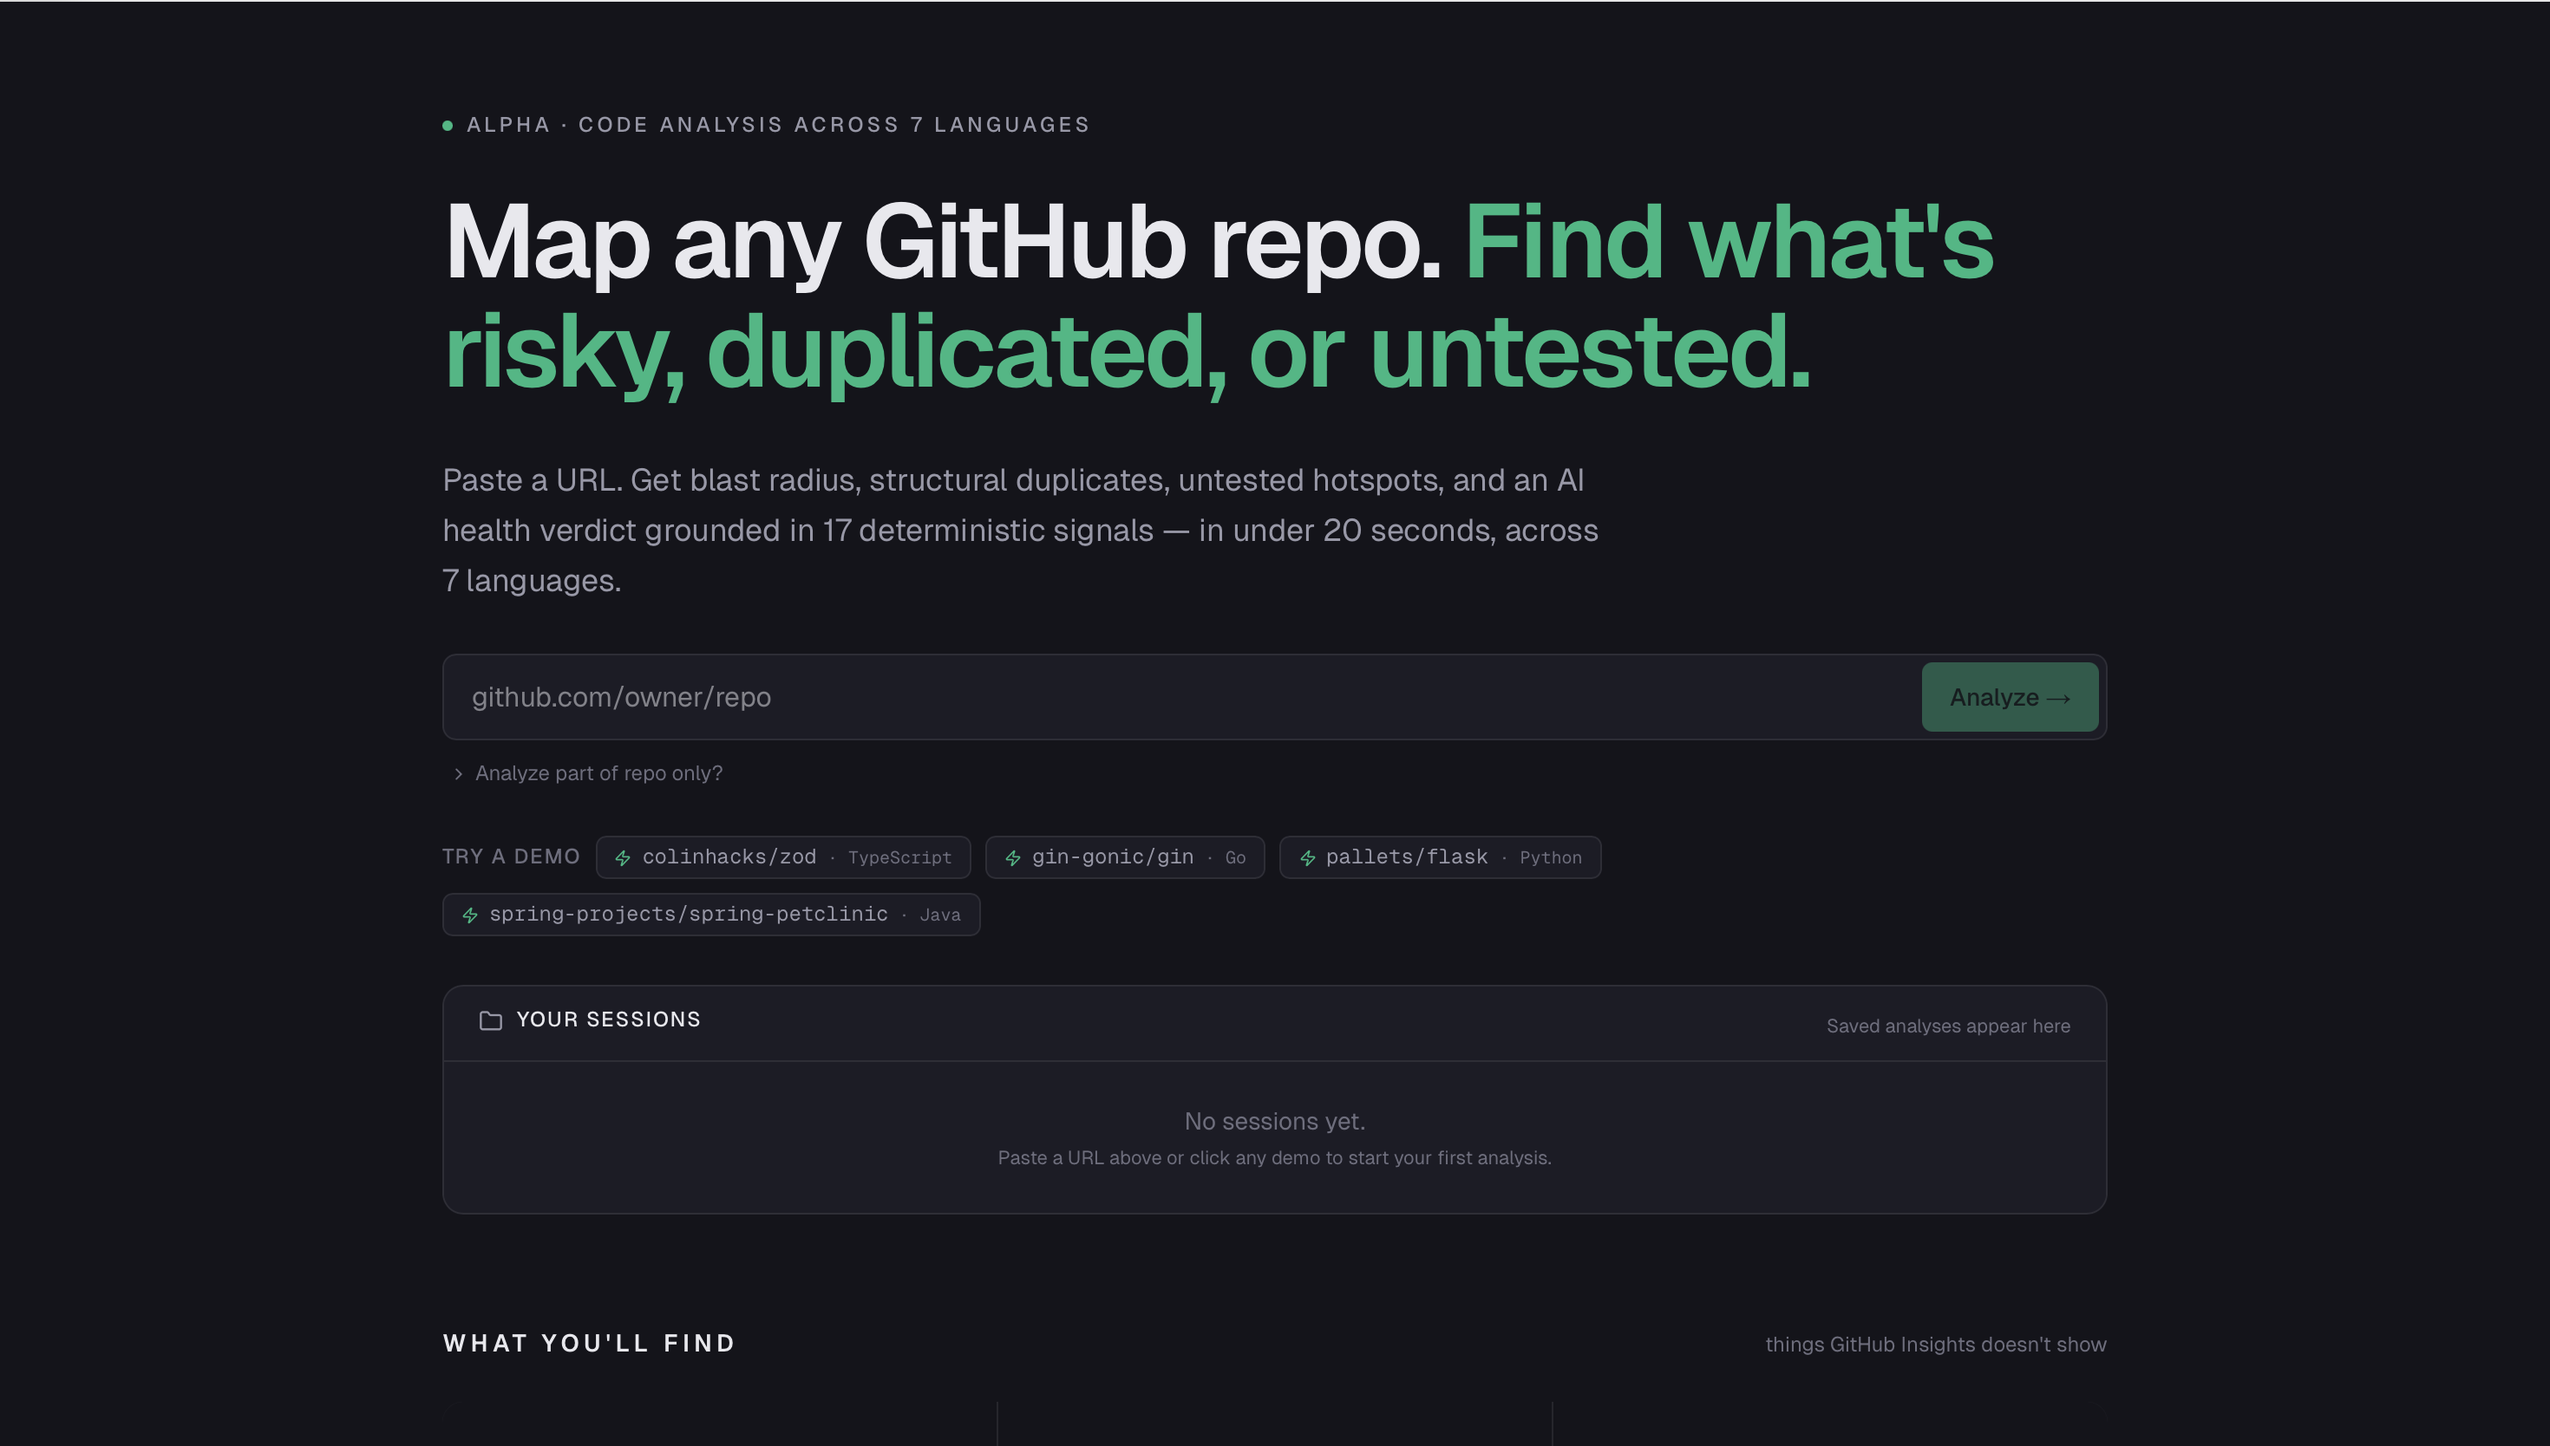
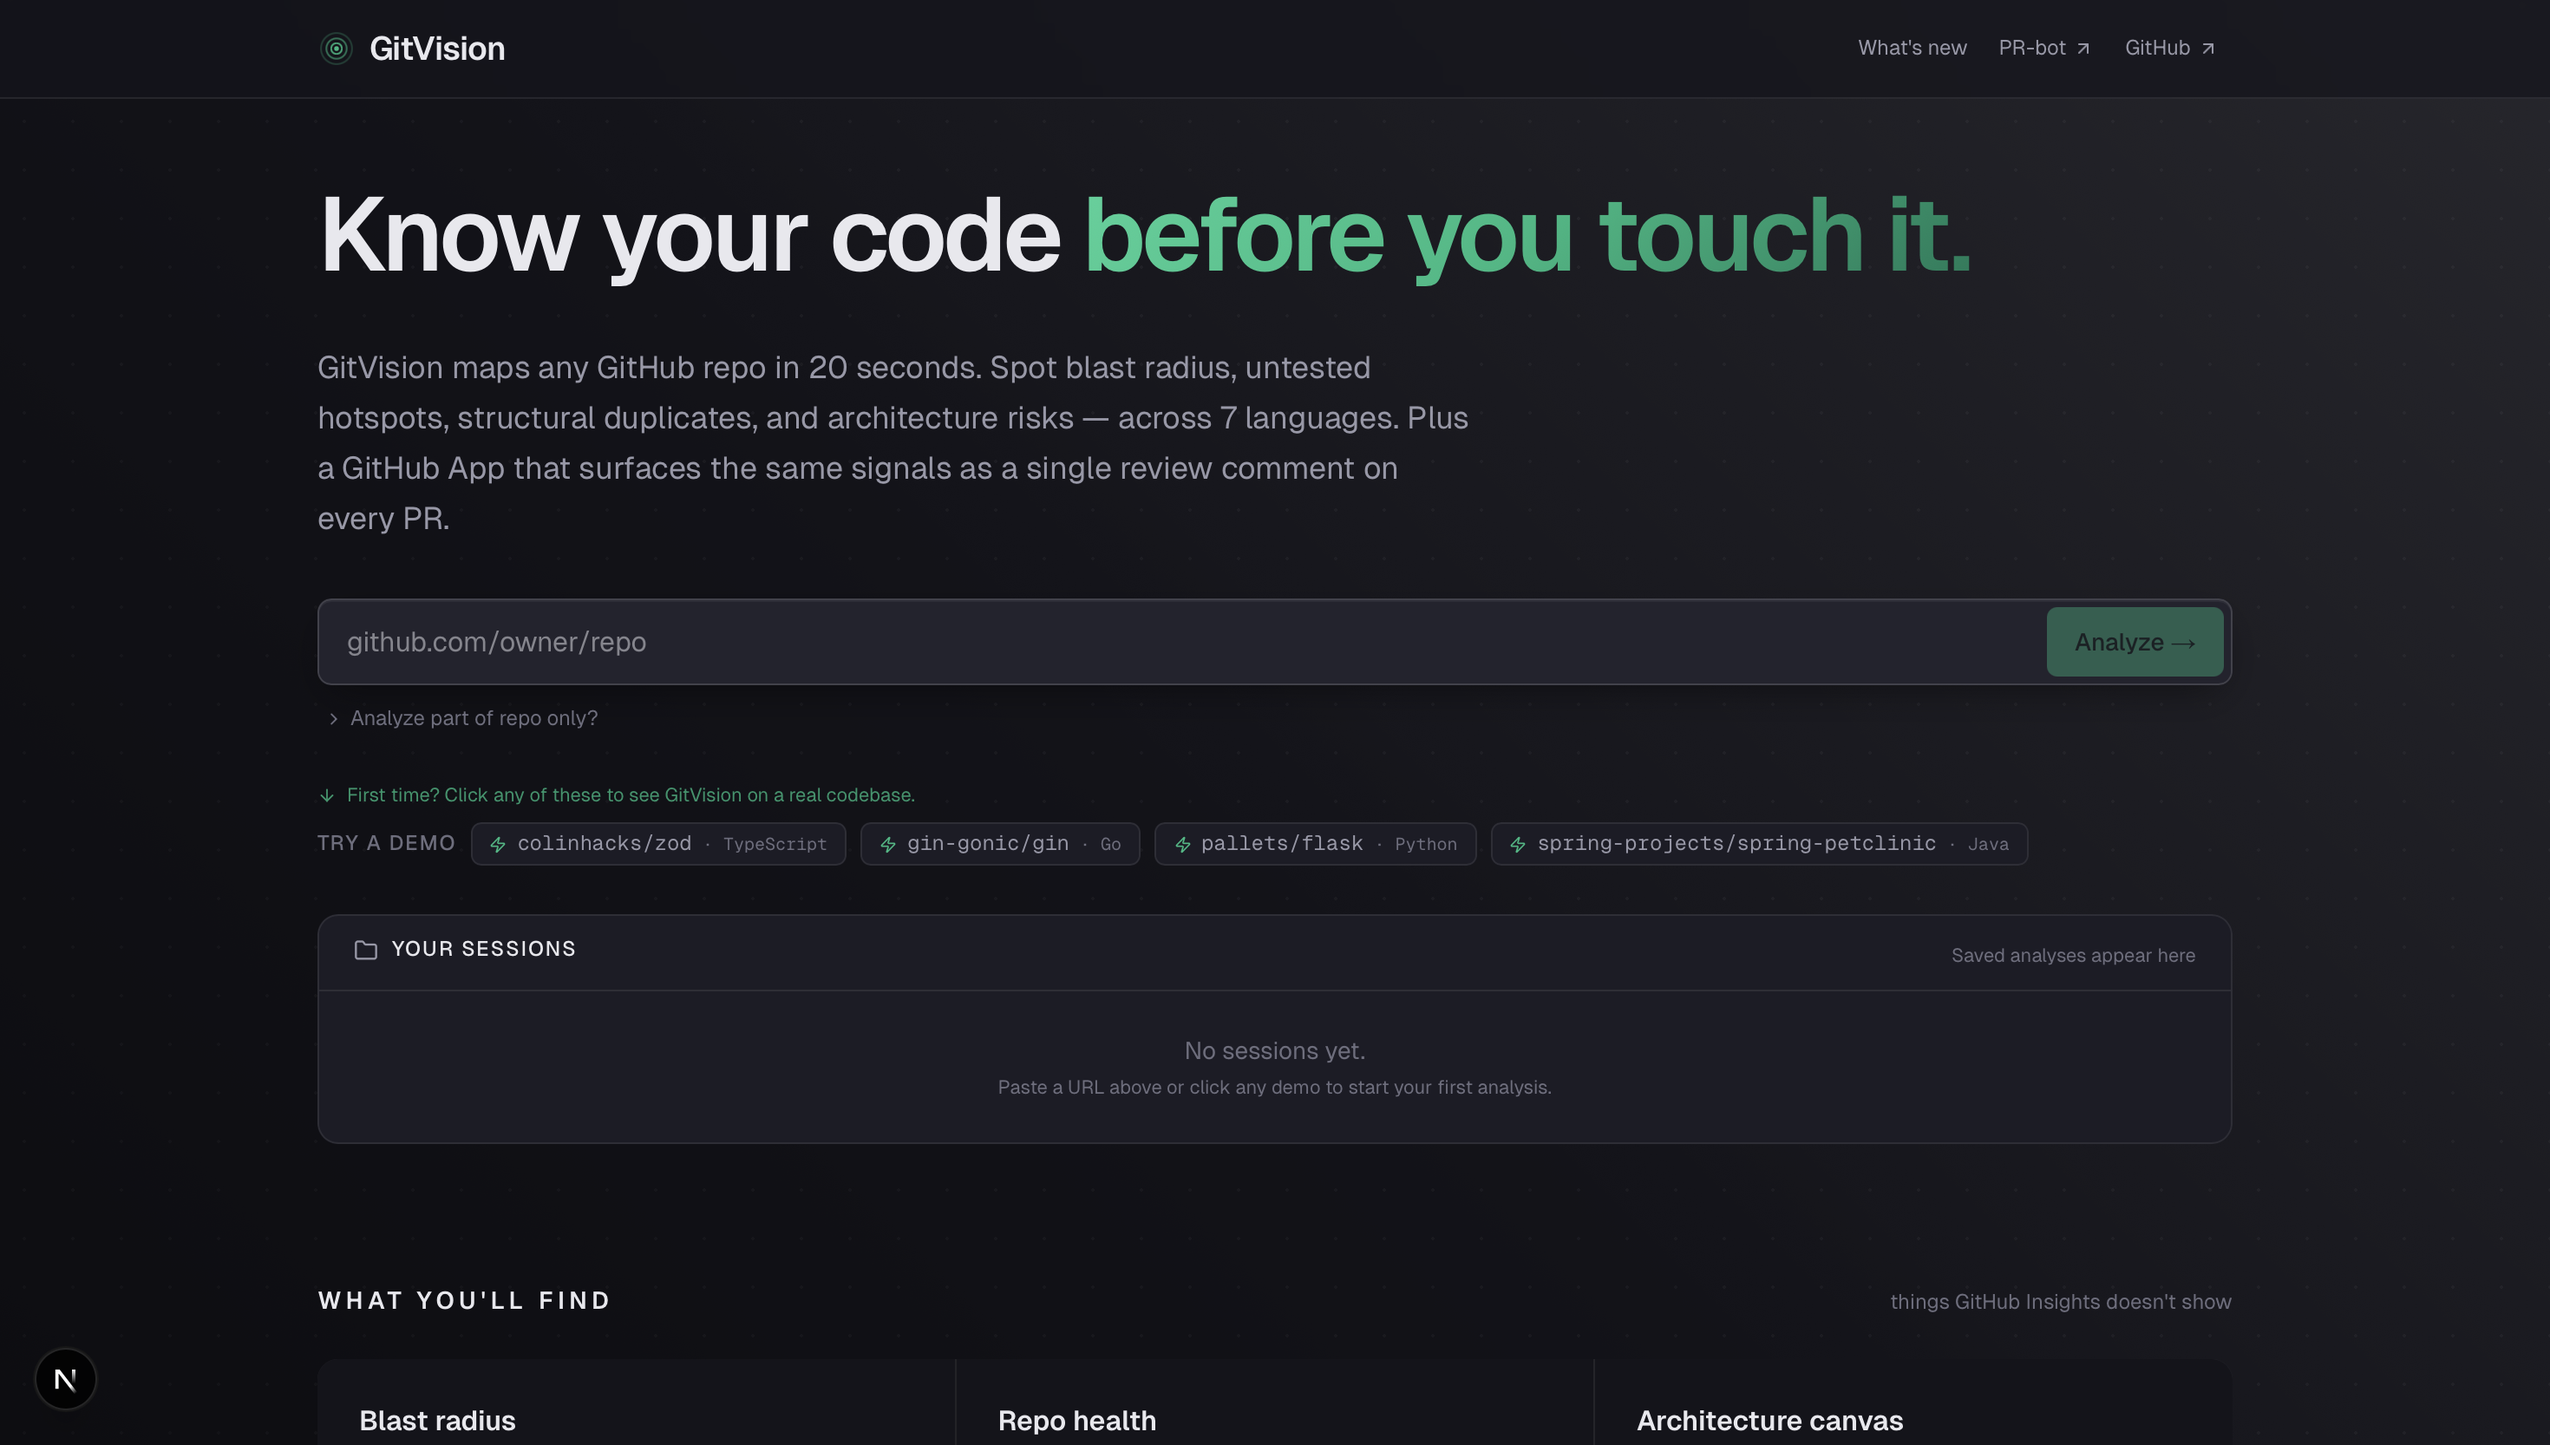
readme: update screenshots — new landing + roadmap section
Updates the hero screenshot to the post-redesign landing (sticky
nav, gradient hero, ambient background) and adds a second screenshot
showing the public roadmap section that lives at the bottom of
both MarketingHome and WorkspaceHome.

What this changes:
- doc/screenshots/Landing.png — re-captured to show the new design.
  Same filename so existing README/marketing references update
  automatically.
- doc/screenshots/Roadmap.png — new file. Shows the "What's new /
  What's coming" two-column roadmap with the date-tag pills and
  status-tag pills.
- README.md — caption on Landing.png updated to mention the new
  sections (sticky nav, real findings, public roadmap). Adds an
  inline reference to Roadmap.png right under the "Two surfaces"
  section so visitors see the shipping cadence visually before
  scrolling into the workspace deep-dive.

The Roadmap section is one of the strongest momentum signals for
new visitors. Surfacing it on the README too means GitHub-visit
readers get the same "this project is actively shipping" cue that
gitvision.net visitors do.

diff --git a/README.md b/README.md
@@ -14,7 +14,7 @@ hotspots, structural duplicates, and architecture diagrams in under
 ![Tests](https://img.shields.io/badge/tests-1000%2B%20passing-emerald)
 ![License](https://img.shields.io/badge/license-PolyForm%20Noncommercial-purple)
 
-![GitVision landing page — paste any GitHub URL, click any of 4 instant demos](doc/screenshots/Landing.png)
+![GitVision landing — paste any URL or click any of 4 instant demos. Sticky nav, real findings, and a public roadmap below.](doc/screenshots/Landing.png)
 
 ## Why GitVision
 
@@ -83,6 +83,8 @@ repeated `synchronize` events don't stack duplicate comments.
 Both surfaces share the same diff-aware AST analysis, the same
 calibrated rules engine, the same plugin architecture. Improvements
 to one improve the other.
+
+![Public roadmap section on gitvision.net — recently-shipped items in green tags, upcoming work in muted tags](doc/screenshots/Roadmap.png)
 
 ## What you'll find
 
